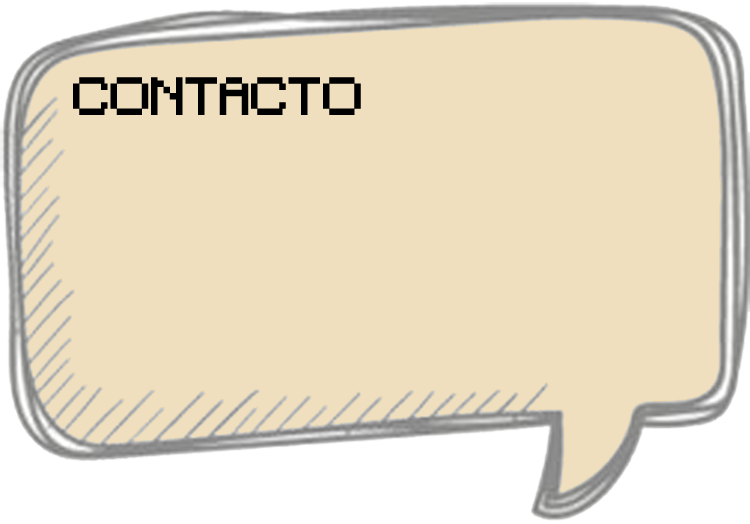
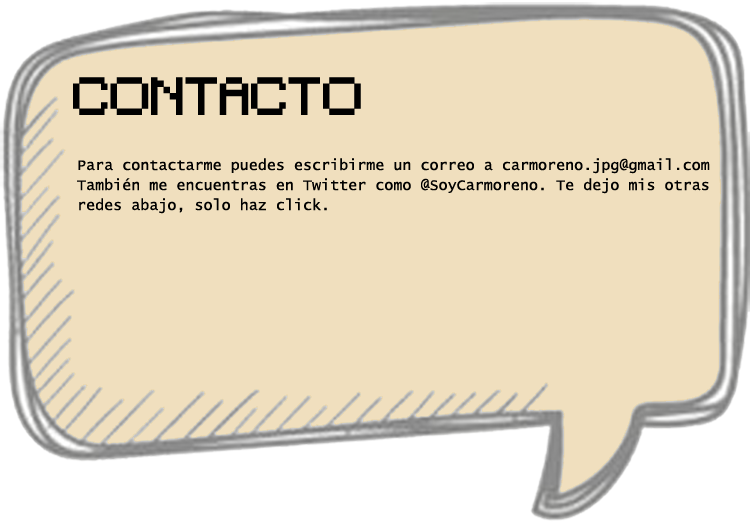
Modal contacto, finalizado.

Changed region(s): [[0.092, 0.3053, 0.9507, 0.4275]]

diff --git a/estados/juego.js b/estados/juego.js
@@ -145,7 +145,6 @@ var Juego = {
 	},
 
 	resetear: function() {
-		alert("Nos vemos ahora!")
 		PUNTOS = 0
 		me.audioMoneda.stop()
 		me.audioTubo.stop()
@@ -176,14 +175,27 @@ var Juego = {
             itemsArr: [
                 {
                     type: "text",
-                    content: "Simple Text with Modal background, \n nothing fancy here...",
-                    fontFamily: "Luckiest Guy",
-                    fontSize: 38,
-                    color: "0xFEFF49",
+                    content: "También puedes descargar mi curriculum\n en formato PDF :-).",
+                    fontFamily: "Lucida Console",
+                    fontSize: 30,
+                    color: "0xFFFFFF",
                     offsetY: -50,
                     stroke: "0x000000",
                     strokeThickness: 5
-                }
+                },
+
+                {
+                    type: "image",
+                    content: "btnDownload",
+                    offsetY: 70,
+                    offsetX: -10,
+                    contentScale: 0.6,
+                    callback: function () {
+                    	modal.hideModal("modal")
+                      	window.open('http://carmoreno.github.io/curriculum.pdf')
+                    }
+	            },
+
             ]
         });
 		}
@@ -232,6 +244,88 @@ var Juego = {
 	                    offsetX: 300,
 	                    callback: function(){
 	                    	modal.hideModal("modal")
+	                    }
+	            	}
+	            ]
+	   		})
+		}
+		else if (fondo == "modalContacto") {
+			modal.createModal({
+	            type:"modal",
+	            includeBackground: true,
+	            modalCloseOnInput: true,
+	  			itemsArr: [
+	                {
+	                    type: "image",
+	                    content: fondo,
+	                    offsetY: 10,
+	                    offsetX: 10,
+	                    contentScale: 1
+	            	},
+	            	{
+	                    type: "image",
+	                    content: "botonIN",
+	                    offsetY: 30,
+	                    offsetX: -202,
+	                    contentScale: 0.8,
+	                    callback: function () {
+	                    	window.open("https://co.linkedin.com/in/carmoreno1")
+	                    	
+	                    }
+	            	},
+	            	{
+	                    type: "image",
+	                    content: "botonGit",
+	                    offsetY: 30,
+	                    offsetX: 102,
+	                    contentScale: 0.8,
+	                    callback: function () {
+	                    	window.open("http://github.com/carmoreno")
+	                    	
+	                    }
+	            	},
+	            	{
+	                    type: "image",
+	                    content: "botonST",
+	                    offsetY: 30,
+	                    offsetX: -102,
+	                    contentScale: 0.8,
+	                    callback: function () {
+	                    	window.open("http://stackoverflow.com/users/4508767/carmoreno")
+	                    	
+	                    }
+	            	},
+	            	{
+	                    type: "image",
+	                    content: "botonGP",
+	                    offsetY: 30,
+	                    offsetX: 202,
+	                    contentScale: 0.8,
+	                    callback: function () {
+	                    	window.open("https://plus.google.com/+CarlosMorenoV")
+	                    	
+	                    }
+	            	},
+	            	{
+	                    type: "image",
+	                    content: "botonCP",
+	                    offsetY: 30,
+	                    offsetX: 0,
+	                    contentScale: 0.8,
+	                    callback: function () {
+	                    	window.open("http://codepen.io/carmoreno")
+	                    	
+	                    }
+	            	},
+	            	{
+	                    type : "text",
+	                    content: "X",
+	                    fontSize: 45,
+	                    color: "0x000000",
+	                    offsetY: -220,
+	                    offsetX: 300,
+	                    callback: function(){
+	                    	modal.hideModal("modal");
 	                    }
 	            	}
 	            ]

diff --git a/estados/preloader.js b/estados/preloader.js
@@ -25,6 +25,12 @@ var Preloader = {
 		juego.load.image('bgMenu', 'imgs/bgMenu.png')
 		juego.load.image('SI', 'imgs/SI.png')
 		juego.load.image('NO', 'imgs/NO.png')
+		juego.load.image('botonGit', 'imgs/botonGit.png')
+		juego.load.image('botonIN', 'imgs/botonIN.png')
+		juego.load.image('botonGP', 'imgs/botonGP.png')
+		juego.load.image('botonCP', 'imgs/botonCP.png')
+		juego.load.image('botonST', 'imgs/botonST.png')
+		juego.load.image('btnDownload', 'imgs/botonDescargar.png')
 		juego.load.spritesheet('boxPregunta', 'imgs/secreto.png', 20, 18)
 		juego.load.spritesheet('botones', 'imgs/btns.png', 100, 67.8)
 		juego.load.spritesheet('btnBandera', 'imgs/btnBandera.png', 100.5, 68)
